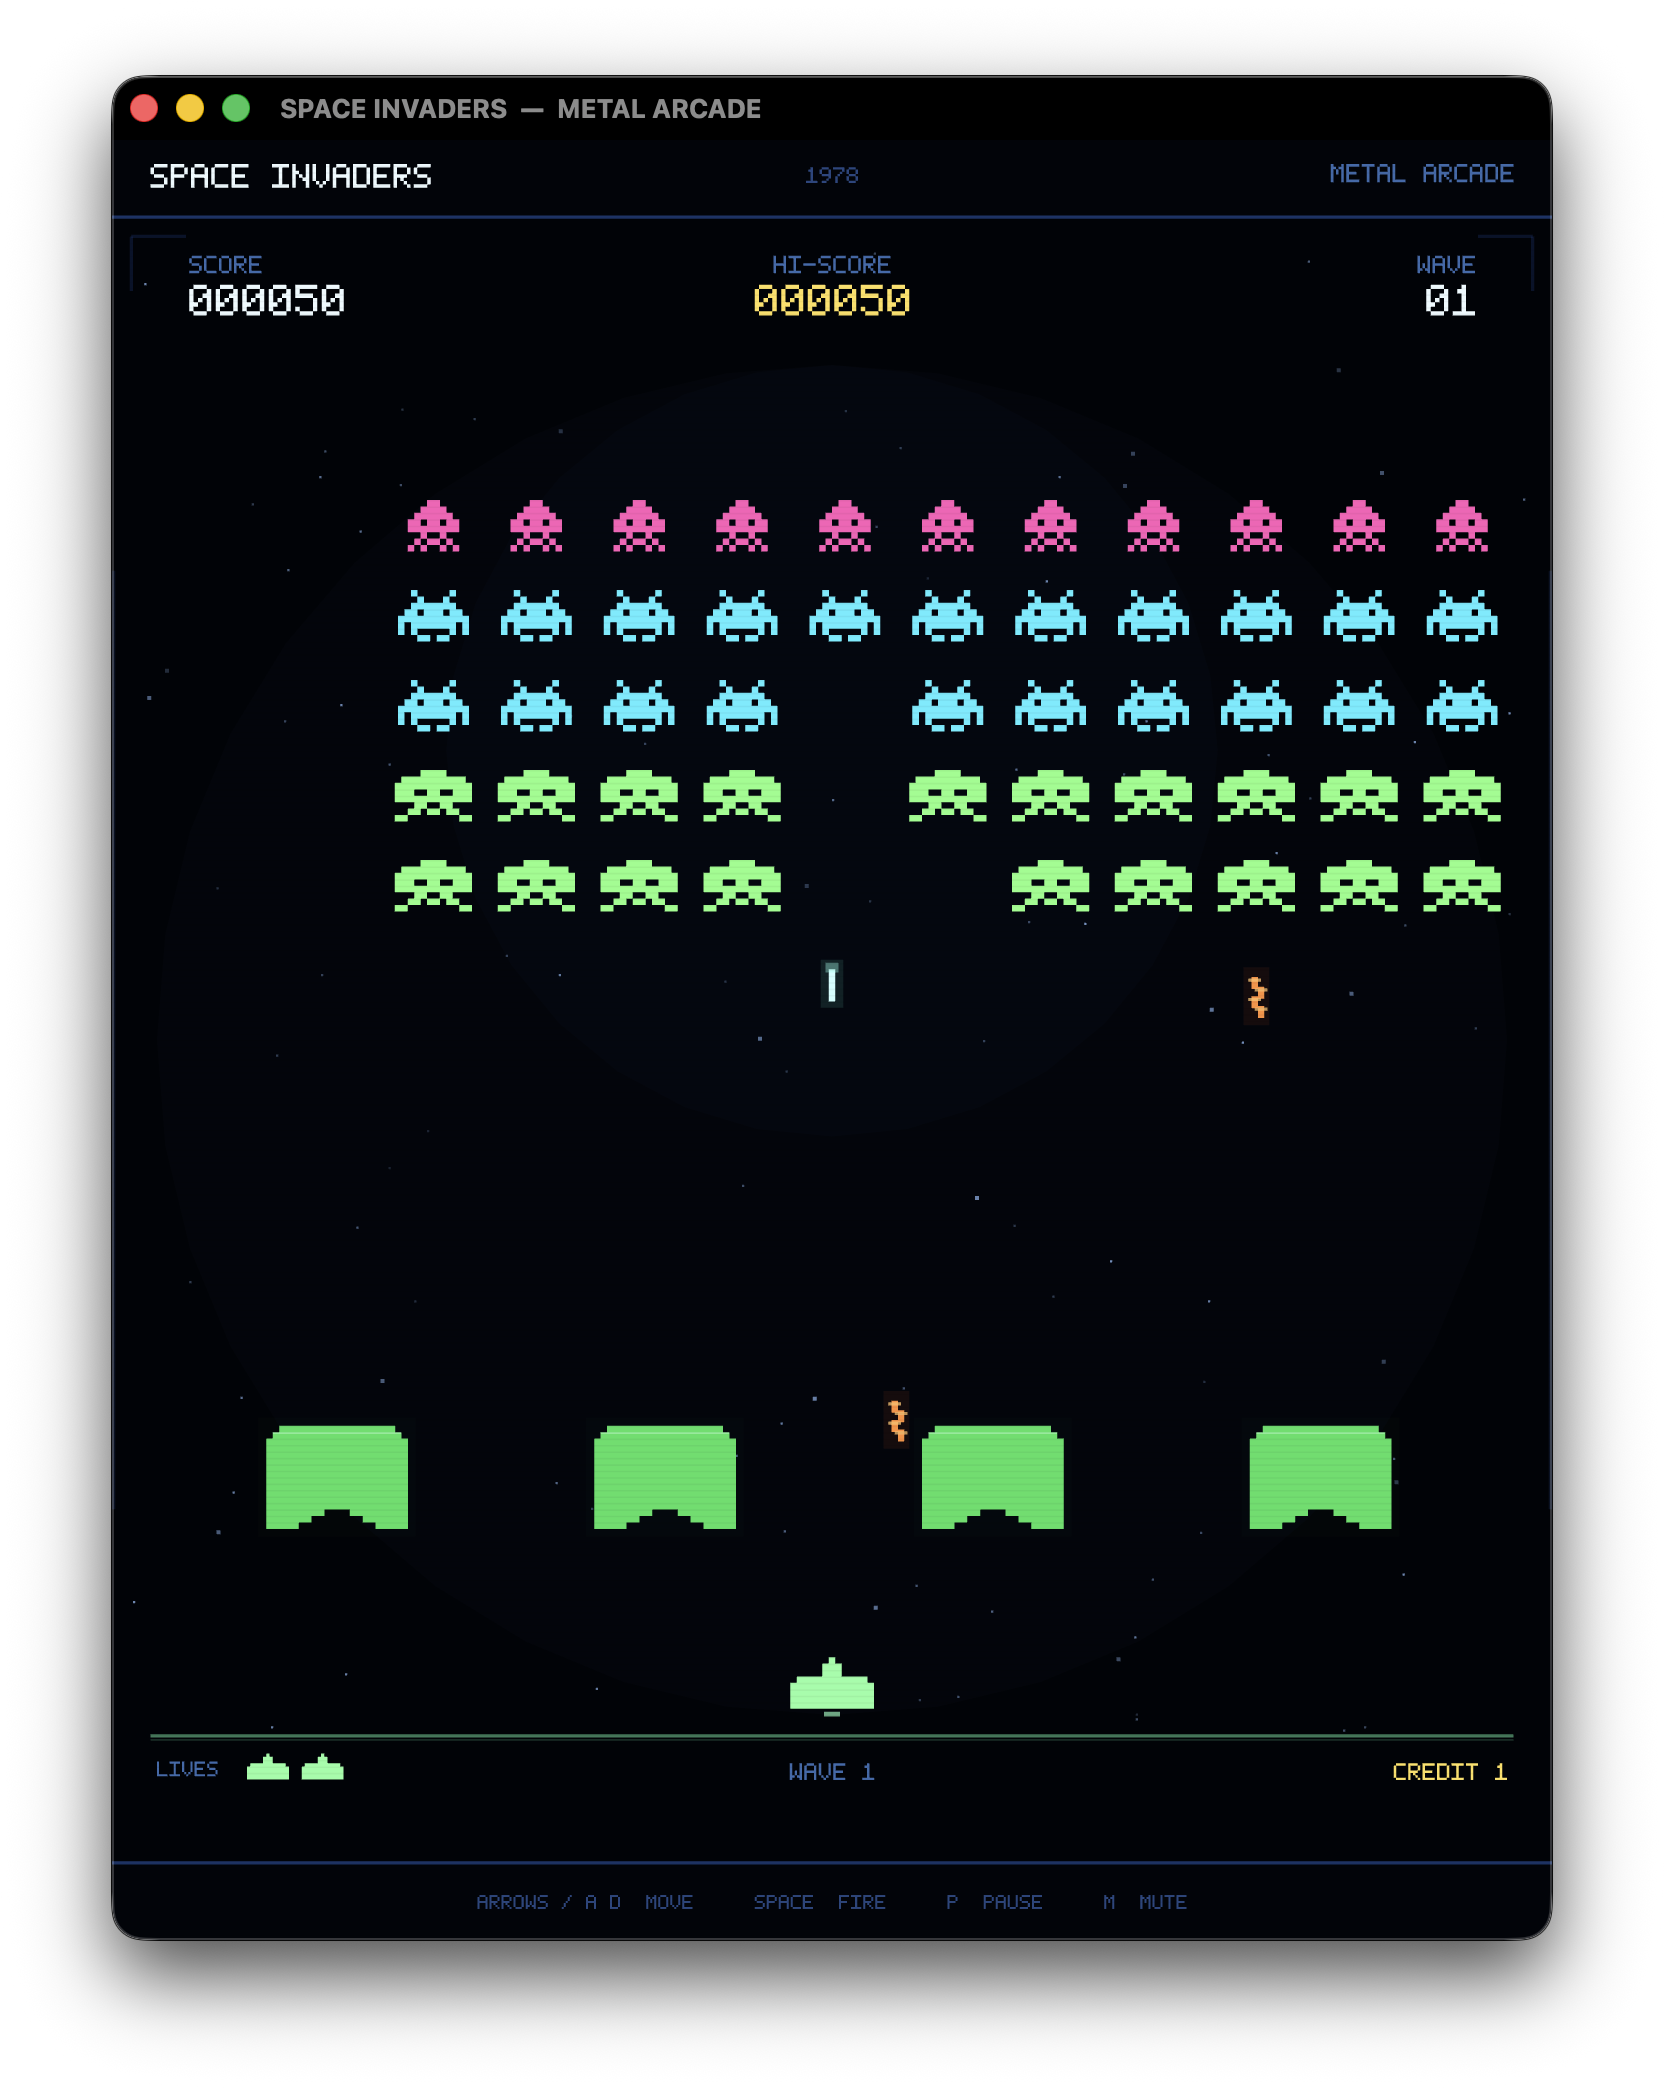
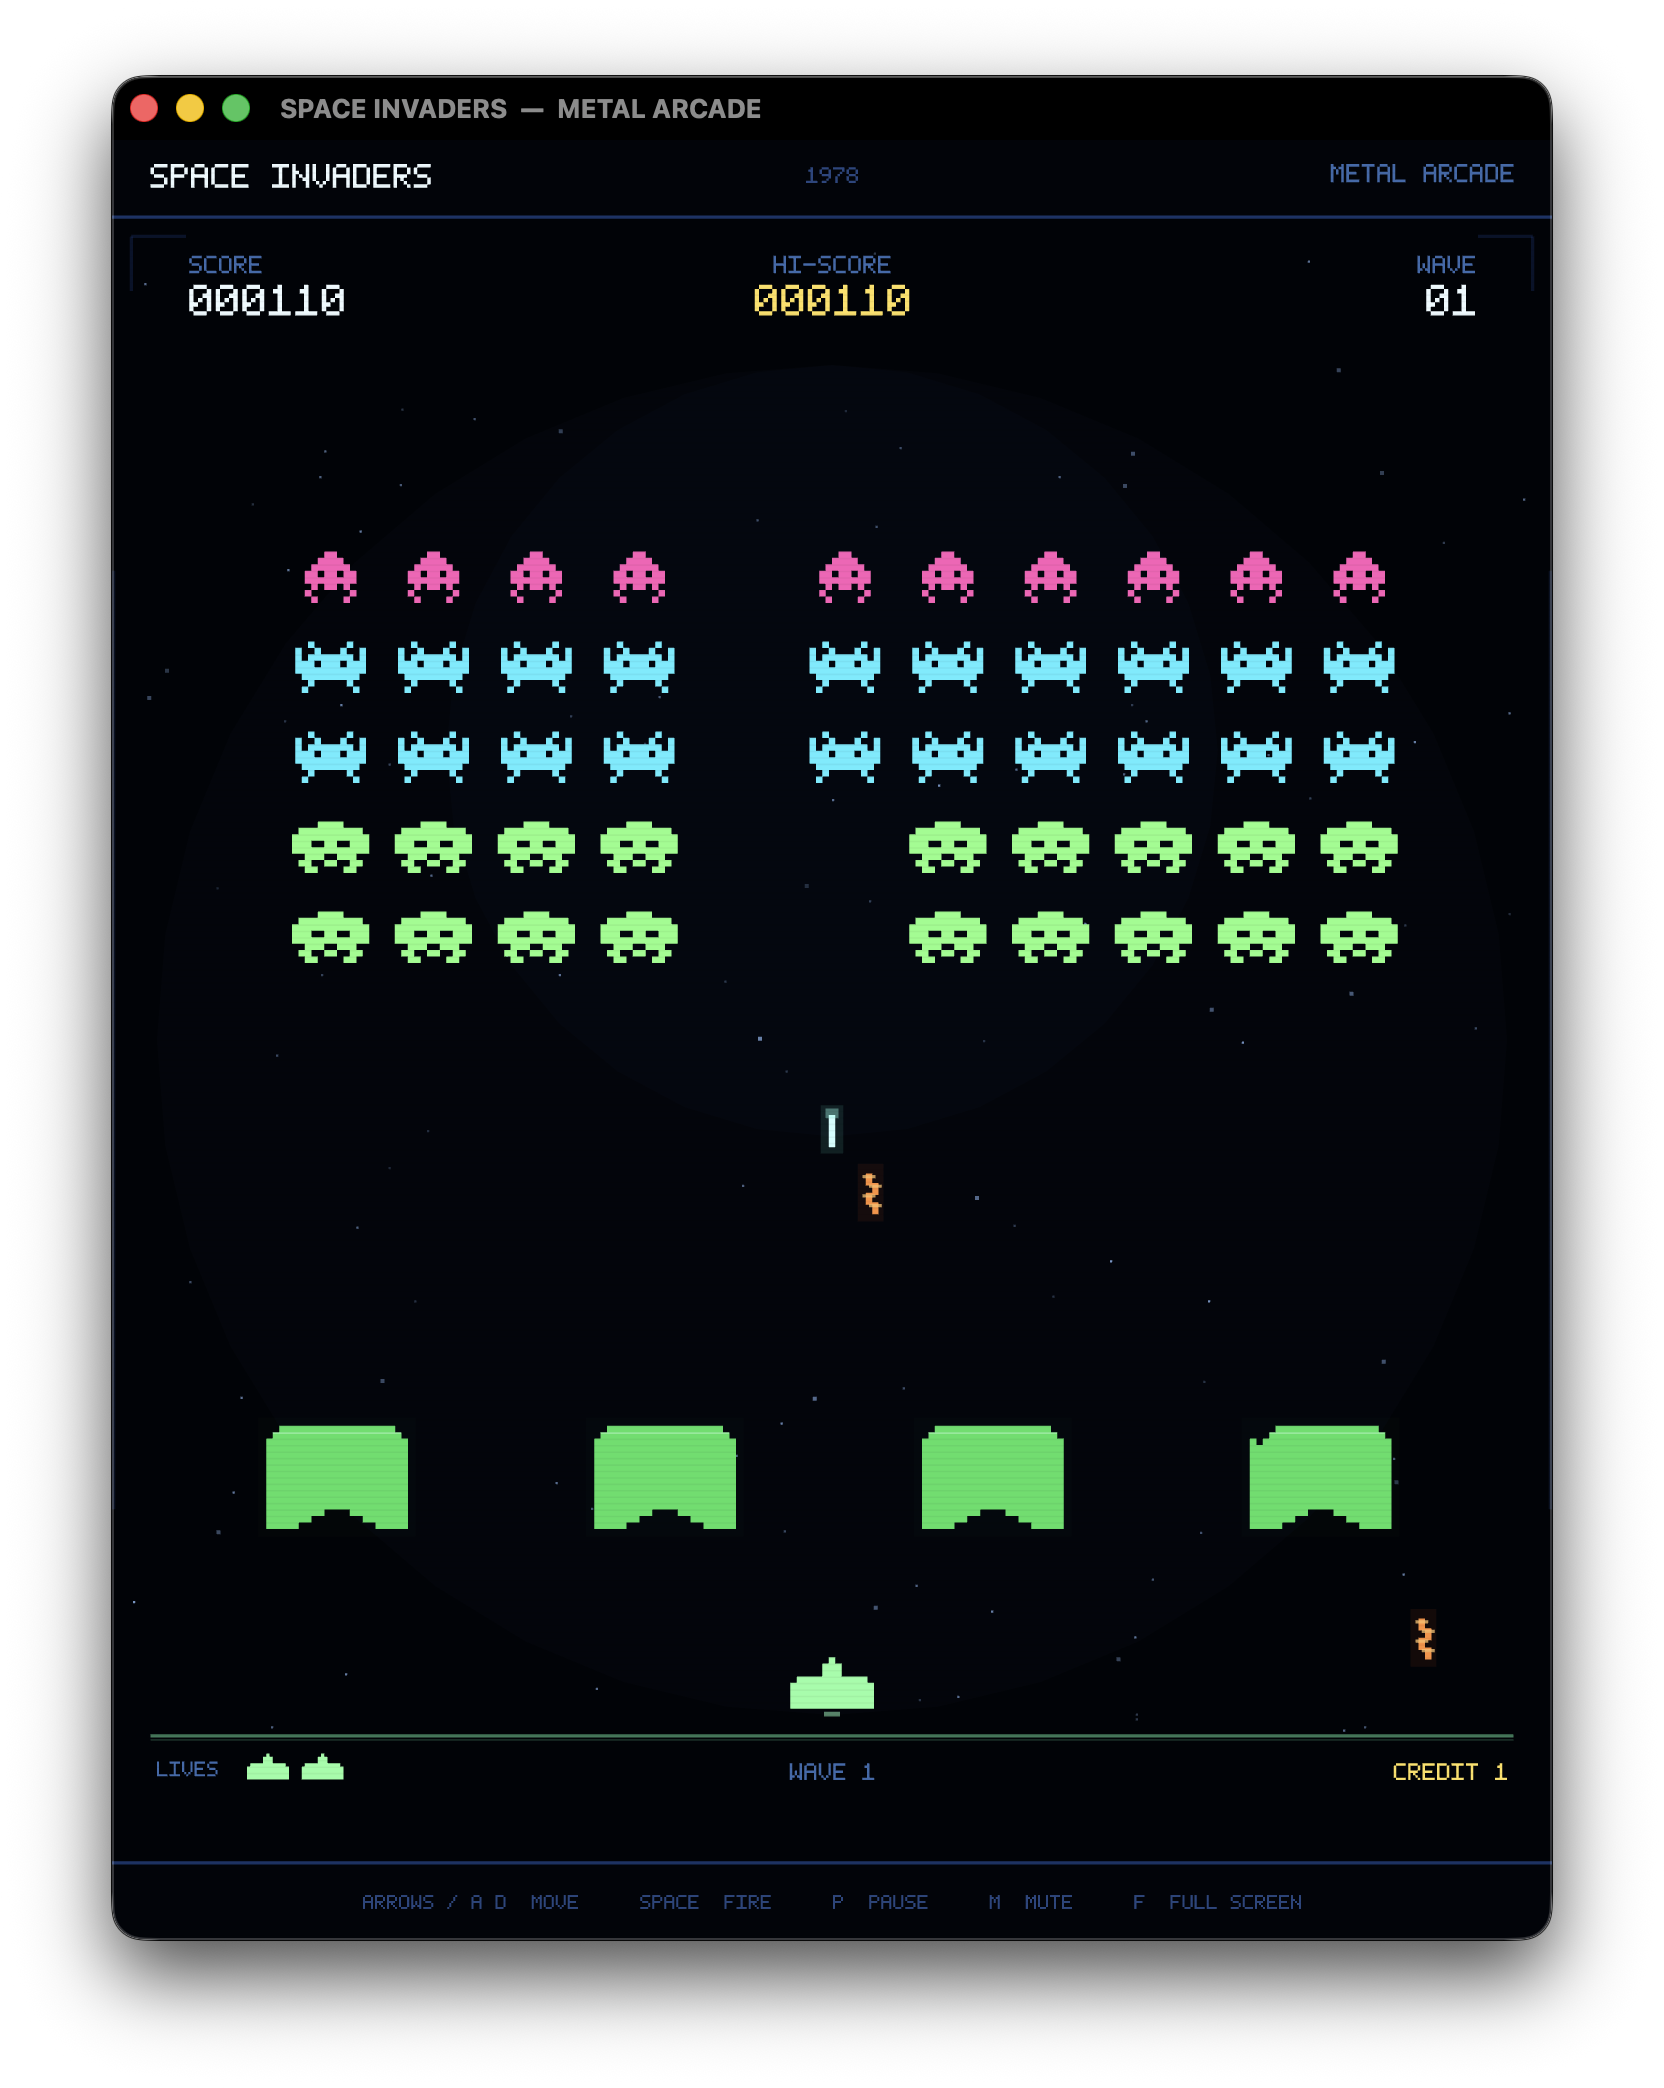
feat: toggle full screen with F and leave it with Esc
F enters or leaves full screen from the game view; Esc leaves full
screen when full screen is active and keeps pausing otherwise. Both
ignore key repeats so a held key cannot fight the transition animation.
Add the shortcut to the attract, HUD, and README control hints, and
refresh both documentation screenshots.

diff --git a/Sources/SpaceInvadersArcade/GameView.swift b/Sources/SpaceInvadersArcade/GameView.swift
@@ -147,14 +147,24 @@ final class GameView: MTKView, MTKViewDelegate {
             } else {
                 game.fire()
             }
+        case 3:
+            if !event.isARepeat {
+                toggleFullscreen()
+            }
         case 35:
             game.togglePause()
             clearMovement()
         case 46:
             toggleMute()
         case 53:
-            game.pause()
-            clearMovement()
+            if isFullScreen {
+                if !event.isARepeat {
+                    toggleFullscreen()
+                }
+            } else {
+                game.pause()
+                clearMovement()
+            }
         default:
             guard let characters = event.charactersIgnoringModifiers?.lowercased() else {
                 return
@@ -198,6 +208,18 @@ final class GameView: MTKView, MTKViewDelegate {
     private func clearMovement() {
         game.setMovingLeft(false)
         game.setMovingRight(false)
+    }
+
+    private var isFullScreen: Bool {
+        window?.styleMask.contains(.fullScreen) ?? false
+    }
+
+    /// Enter or leave full screen without changing the game phase. The renderer
+    /// letterboxes to the new drawable size, so the arcade aspect is preserved.
+    private func toggleFullscreen() {
+        guard let window else { return }
+        clearMovement()
+        window.toggleFullScreen(nil)
     }
 
     func saveHighScore() {

diff --git a/Sources/SpaceInvadersArcade/Renderer.swift b/Sources/SpaceInvadersArcade/Renderer.swift
@@ -554,7 +554,7 @@ final class Renderer {
             pixelSize: 1.5, color: Palette.hudDim, alignment: .center)
 
         font.draw(
-            "ARROWS / A D  MOVE     SPACE  FIRE     P  PAUSE     M  \(isMuted ? "SOUND OFF" : "MUTE")",
+            "ARROWS / A D  MOVE     SPACE  FIRE     P  PAUSE     M  \(isMuted ? "SOUND OFF" : "MUTE")     F  FULL SCREEN",
             x: Self.designWidth * 0.5, y: Self.designHeight - 28, pixelSize: 1.25,
             color: Palette.hudFaint, alignment: .center)
     }
@@ -634,7 +634,8 @@ final class Renderer {
             "ARROWS / A D TO MOVE       SPACE TO FIRE", x: Self.designWidth * 0.5, y: 812,
             pixelSize: 1.55, color: Palette.hud, alignment: .center)
         font.draw(
-            "P PAUSE      M MUTE      ESC PAUSE", x: Self.designWidth * 0.5, y: 842,
+            "P PAUSE      M MUTE      F FULL SCREEN      ESC PAUSE / EXIT FULL SCREEN",
+            x: Self.designWidth * 0.5, y: 842,
             pixelSize: 1.35, color: Palette.hudDim, alignment: .center)
         font.draw(
             "55 INVADERS. FOUR SHIELDS. ONE CANNON.", x: Self.designWidth * 0.5, y: 882,

diff --git a/README.md b/README.md
@@ -40,13 +40,14 @@ Requires macOS 13 or newer and a Mac with Metal support. The project builds with
 | Space | Fire (one shot in flight, as in 1978) |
 | Return / Space | Start game / play again |
 | P | Pause / resume |
-| Esc | Pause |
+| Esc | Pause; exits full screen when already full screen |
 | M | Mute / unmute |
+| F | Enter / leave full screen |
 | ⌘N | New game |
 | ⌘P / ⌘M | Pause / mute (menu shortcuts) |
-| ⌃⌘F | Toggle full screen |
+| ⌃⌘F | Toggle full screen (menu shortcut) |
 
-The window is resizable and keeps the portrait arcade aspect ratio. Sound can be muted at any time and the setting is remembered.
+The window is resizable and keeps the portrait arcade aspect ratio. Full screen letterboxes the same way, and F or Esc leaves it. Sound can be muted at any time and the setting is remembered.
 
 ## What is implemented
 
